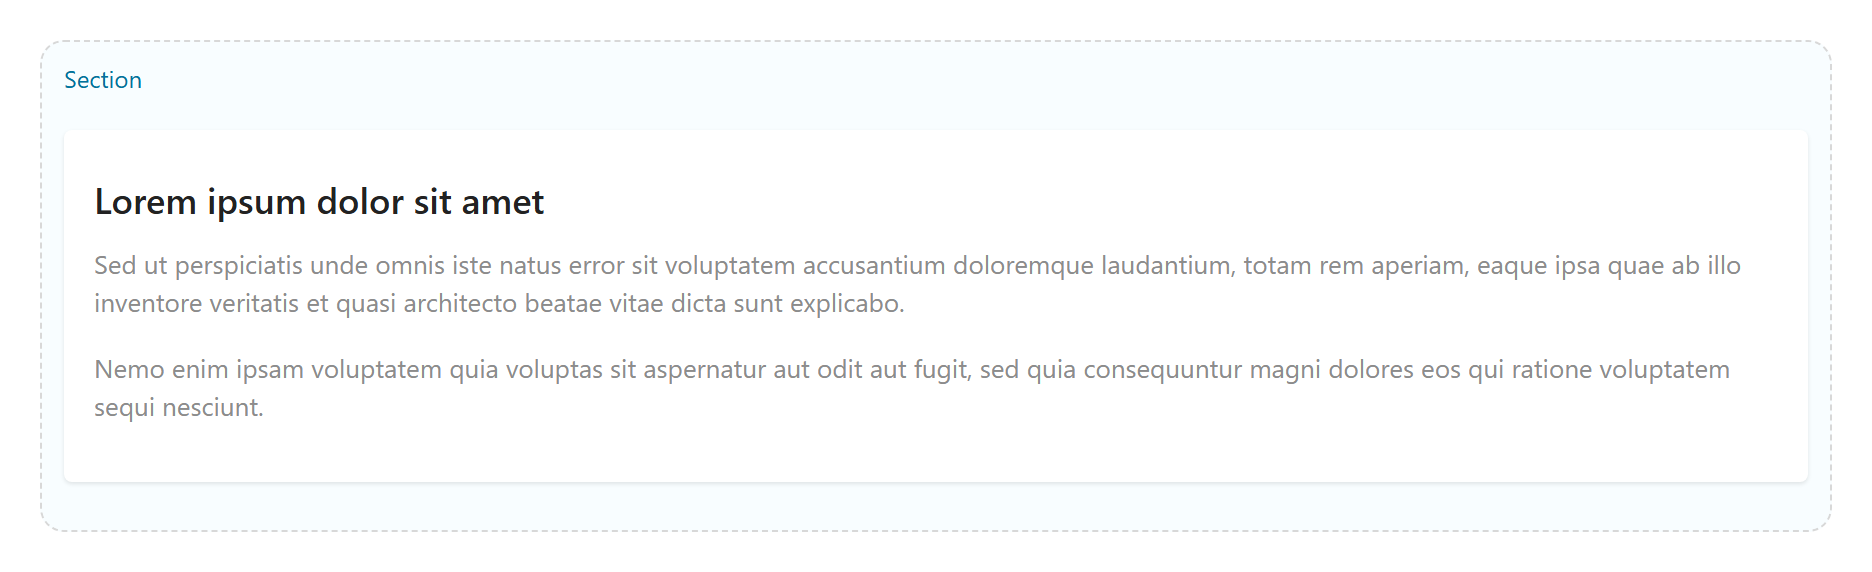
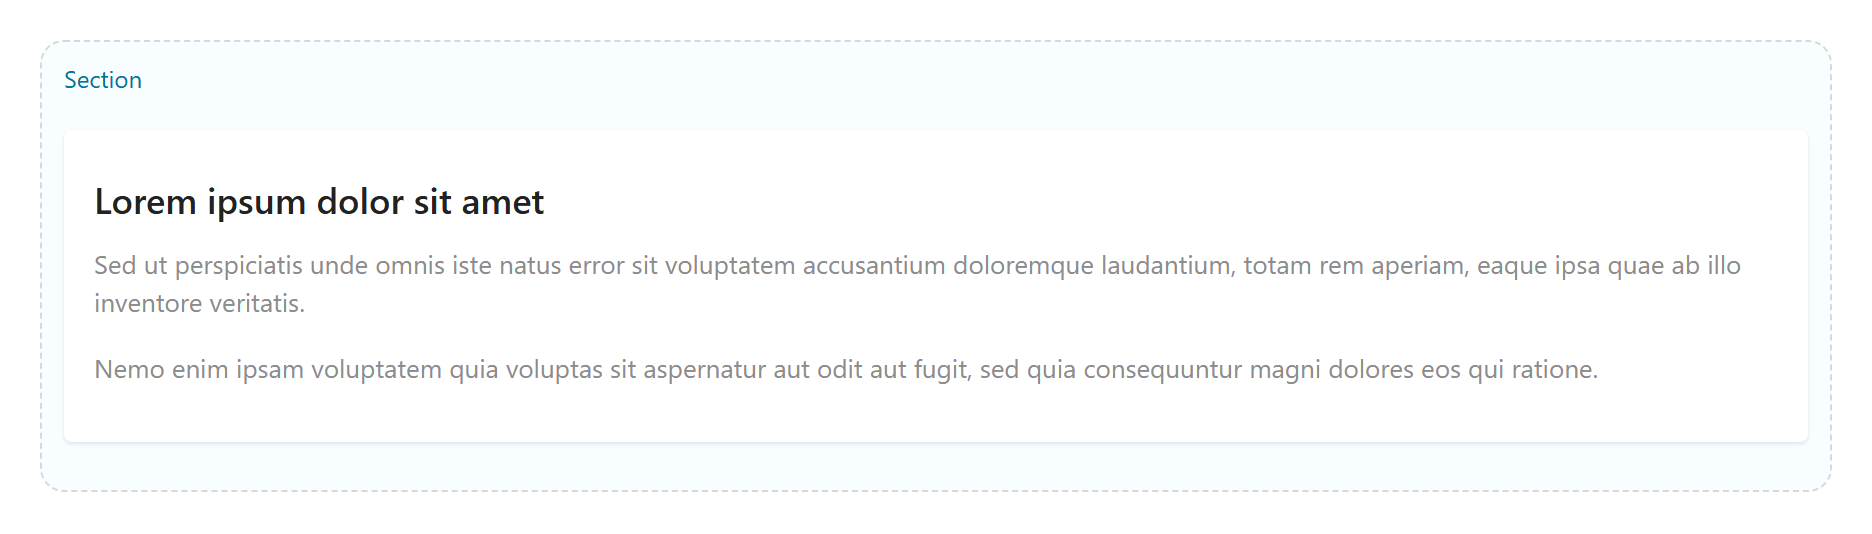
Text Block screenshots: drop Live editor, add Styling tab, fill panels with lipsum
- Remove the Live Page Editor screenshot (to revisit after theme setup).
- Capture the options panel per tab except Animations/Advanced (Content +
  Styling), with the WYSIWYG filled with lipsum so the panels show content.
- Keep the backend Page Builder canvas shot.

diff --git a/docs/shortcodes/content-elements/text-block.md b/docs/shortcodes/content-elements/text-block.md
@@ -19,14 +19,14 @@ Text Color, Background Color, and Margin & Padding.
 
 ## Screenshots
 
-**The options panel** — the Content tab with the WYSIWYG editor:
+**Content tab** — the WYSIWYG editor:
 
 ![Text Block options panel — the Content tab with the WYSIWYG editor](/img/shortcodes/text-block-content.png)
+
+**Styling tab:**
+
+![Text Block options panel — the Styling tab](/img/shortcodes/text-block-styling.png)
 
 **On the Page Builder canvas** — a Text Block with example content inside a Section:
 
 ![Text Block on the backend Page Builder canvas, showing example heading and paragraphs](/img/shortcodes/text-block-backend.png)
-
-**In the Live Page Editor** — the same Text Block edited on the live front end:
-
-![Text Block in the Live Page Editor with the toolbar and the element selected](/img/shortcodes/text-block-live.png)